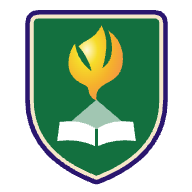
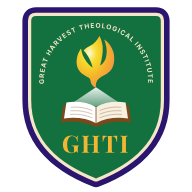
Apply GHTI's feedback: mission, header name and one crest
The text GHTI sent as its vision is now its mission statement, on the
home and About pages; the vision is gone. The header spells out Great
Harvest Theological Institute under GHTI instead of the CRM name. The
crest with the name and GHTI is now the only logo (header, favicon and
app icons), with the name arc raised and the dove lowered so they no
longer touch.

Changed region(s): [[0.0938, 0.0312, 0.9062, 1.0], [0.6875, 0.2188, 0.75, 0.2812]]

diff --git a/components/layout/Header.tsx b/components/layout/Header.tsx
@@ -7,9 +7,10 @@ import MobileMenu from "@/components/layout/MobileMenu";
 import { ghtiNavLinks, site } from "@/lib/site";
 
 /**
- * GHTI's own header: the app's navigation comes first. The CRM affiliation
- * stays visible in the wordmark's tagline; the shared CRM links and logo live
- * in the footer (decision 15 Nov 2026, AGENTS.md "Design System").
+ * GHTI's own header: the app's navigation comes first. The wordmark spells
+ * out what GHTI stands for (GHTI asked on 20 Nov 2026 that the header not
+ * carry the CRM name, which read as the meaning of "GHTI"); the CRM links and
+ * logo live in the footer (AGENTS.md "Design System").
  */
 function Header() {
   return (
@@ -17,7 +18,7 @@ function Header() {
       <div className="mx-auto flex h-16 w-full max-w-7xl items-center justify-between gap-4 px-4 sm:px-6 lg:h-20 lg:px-8">
         <Link href="/" className="flex min-w-0 items-center gap-3">
           <Image
-            src="/brand/ghti-mark.svg"
+            src="/brand/ghti-crest.svg"
             alt=""
             width={40}
             height={48}
@@ -28,9 +29,11 @@ function Header() {
             <span className="font-display text-2xl font-bold tracking-wide lg:text-3xl">
               {site.name}
             </span>
-            <span className="mt-1 truncate text-[0.7rem] font-medium tracking-wide text-on-brand-muted lg:text-xs">
-              {site.ministry}
-            </span>
+            {site.fullName && (
+              <span className="mt-1 text-[0.7rem] leading-tight font-medium tracking-wide text-on-brand-muted lg:text-xs">
+                {site.fullName}
+              </span>
+            )}
           </span>
         </Link>
 

diff --git a/app/(public)/page.tsx b/app/(public)/page.tsx
@@ -7,7 +7,7 @@ import { content } from "@/lib/content";
 import { getPublishedProgrammes } from "@/lib/queries/programmes";
 import { site } from "@/lib/site";
 
-// Welcome text, vision and faith come from lib/content.ts (client input #9).
+// Welcome text, mission and faith come from lib/content.ts (client input #9).
 // Banner images are still to come.
 
 async function HomePage() {
@@ -52,14 +52,14 @@ async function HomePage() {
 
       <section aria-labelledby="faith-heading" className="border-b border-border">
         <h2 id="faith-heading" className="sr-only">
-          Vision and faith
+          Mission and faith
         </h2>
         <div className="mx-auto grid w-full max-w-7xl gap-6 px-4 py-14 sm:px-6 md:grid-cols-2 lg:px-8">
-          <Pillar title="Our vision" href="/about" linkLabel="About GHTI">
-            {content.vision ? (
-              <p className="font-display text-xl leading-snug text-primary">{content.vision}</p>
+          <Pillar title="Our mission" href="/about" linkLabel="About GHTI">
+            {content.mission ? (
+              <p className="font-display text-xl leading-snug text-primary">{content.mission}</p>
             ) : (
-              <Placeholder what="the vision statement." input={9} />
+              <Placeholder what="the mission statement." input={9} />
             )}
           </Pillar>
           <Pillar title="What we believe" href="/statement-of-faith" linkLabel="Statement of Faith">

diff --git a/app/(public)/about/page.tsx b/app/(public)/about/page.tsx
@@ -9,7 +9,7 @@ import { site } from "@/lib/site";
 
 export const metadata: Metadata = {
   title: "About",
-  description: `About ${site.name}: our vision, mission and history.`,
+  description: `About ${site.name}: our mission and history.`,
 };
 
 function AboutPage() {
@@ -33,17 +33,9 @@ function AboutPage() {
       </PageHeader>
 
       <div className="mx-auto w-full max-w-3xl space-y-12 px-4 py-12 sm:px-6 lg:px-8">
-        <Section title="Our vision">
-          {content.vision ? (
-            <p className="font-display text-2xl leading-snug text-primary">{content.vision}</p>
-          ) : (
-            <Placeholder what="the vision statement." input={9} />
-          )}
-        </Section>
-
         <Section title="Our mission">
           {content.mission ? (
-            <p className="text-lg leading-relaxed text-secondary">{content.mission}</p>
+            <p className="font-display text-2xl leading-snug text-primary">{content.mission}</p>
           ) : (
             <Placeholder what="the mission statement." input={9} />
           )}

diff --git a/lib/content.ts b/lib/content.ts
@@ -10,12 +10,14 @@ export const content = {
   welcome:
     "We train pastors, church workers, market men and women, born again Christians in every sphere of life. Join us now." as
       string | null,
-  /** Client input #9. One or two sentences (received 16 Nov 2026). */
-  vision:
+  /**
+   * Client input #9. One or two sentences (received 16 Nov 2026 as the
+   * vision; GHTI renamed it the mission statement on 20 Nov 2026 and dropped
+   * the vision).
+   */
+  mission:
     "To equip leaders with relevant training to love God and love people to Christ, live a Christ-like life and serve as agents of transformation in the society." as
       string | null,
-  /** Client input #9. */
-  mission: null as string | null,
   /** Client input #9. Paragraphs, oldest first. */
   history: null as string[] | null,
   /** Client input #9. Each article of the Statement of Faith. */

diff --git a/docs/client_inputs.md b/docs/client_inputs.md
@@ -16,13 +16,13 @@ Everything we need from GHTI to keep building, in the order we need it. This is 
 | 6   | **Admission requirements and key dates:** intake names and dates, which intakes are open, application deadline                                                         | Step 1.3 `/admissions` page                             | Waiting                                                                                                                                                                                                                                                                                                                                                                                                       |
 | 7   | **Programme list:** level, title, duration, entry requirements, description. Replaces the fake sample programmes now on the preview                                    | Step 1.5, before applications open                      | Titles received (16 Nov 2026): Certificate in Theology, Ordinary Diploma in Theology, Post Graduate Diploma in Theology. Duration, entry requirements and description waiting                                                                                                                                                                                                                                 |
 | 8   | **Names and emails of the first admins** (registrar, faculty)                                                                                                          | Step 1.4 application review; `bun run admin:create`     | Waiting. The first admin is created with `bun run admin:create`; every later admin or lecturer is invited from `/admin/users`                                                                                                                                                                                                                                                                                 |
-| 9   | **Welcome banner** text and images; **vision**, **history**, **Statement of Faith**                                                                                    | Step 1.5 home, About and Statement of Faith pages       | Welcome text and vision received (16 Nov 2026). Images, mission, history, Statement of Faith waiting                                                                                                                                                                                                                                                                                                          |
-| 10  | **Office phone numbers, email, campus address(es), map location**                                                                                                      | Step 1.5 contact page and footer                        | Waiting. Until the office email arrives, contact-form messages go to the developer (`EMAIL_TO` in Vercel; swap the variable when GHTI sends it)                                                                                                                                                                                                                                                               |
+| 9   | **Welcome banner** text and images; **vision**, **history**, **Statement of Faith**                                                                                    | Step 1.5 home, About and Statement of Faith pages       | Welcome text and vision received (16 Nov 2026); on 20 Nov 2026 GHTI renamed that text its mission statement and dropped the vision, so the site shows "Our mission". Images, history, Statement of Faith waiting                                                                                                                                                                                              |
+| 10  | **Office phone numbers, email, campus address(es), map location**                                                                                                      | Step 1.5 contact page and footer                        | Contact-form recipient received (20 Nov 2026): the dean's address, set as `EMAIL_TO` in Vercel Production (it also gets "grades waiting for approval"); Preview keeps the developer's so test messages never reach GHTI. Phone numbers, a public email, address and map waiting                                                                                                                               |
 | 11  | **Subdomain** confirmed as `ghti.crm-world.org.ng` (open question 8), and **who manages DNS** for `crm-world.org.ng`                                                   | Step 1.5 go-live; also the email sending domain (#12)   | Received (16 Nov 2026): proceed as a CRM subdomain, `ghti.crm-world.org.ng` (confirmed by the client's contact); the developer manages DNS for `crm-world.org.ng`                                                                                                                                                                                                                                             |
 | 12  | **Email sending address** (e.g. `admissions@ghti.crm-world.org.ng`) and DNS records added for Resend (we supply the records)                                           | Real emails: confirmations, sign-in links, decisions    | Partly done (16 Nov 2026): Resend verified for `ghti.crm-world.org.ng`; account emails go from `no-reply@ghti.crm-world.org.ng`. Still waiting for the address GHTI wants for admissions and results emails (and replies). Since 20 Nov 2026 the app also sends application-submitted, decision, welcome and results emails from `no-reply@`; replies go nowhere until this address is set (`EMAIL_REPLY_TO`) |
 | 13  | **Privacy notice details:** who is the data controller, and a contact for data requests (Nigeria Data Protection Act 2023)                                             | Step 1.5 `/privacy` page and consent wording            | Waiting                                                                                                                                                                                                                                                                                                                                                                                                       |
 | 14  | **Year-one numbers and launch date** (open question 9)                                                                                                                 | Capacity planning; free-tier limits                     | Waiting                                                                                                                                                                                                                                                                                                                                                                                                       |
-| 15  | **GHTI logo** (optional): if GHTI has its own mark; otherwise we keep the CRM logo and favicon                                                                         | Header row, favicon, certificates later                 | Received (16 Nov 2026): crest as a JPEG on black. Redrawn as vector (`public/brand/ghti-crest.svg`, `ghti-mark.svg`); redraw approved 16 Nov 2026                                                                                                                                                                                                                                                             |
+| 15  | **GHTI logo** (optional): if GHTI has its own mark; otherwise we keep the CRM logo and favicon                                                                         | Header row, favicon, certificates later                 | Received (16 Nov 2026): crest as a JPEG on black. Redrawn as vector (`public/brand/ghti-crest.svg`); redraw approved 16 Nov 2026. On 20 Nov 2026 GHTI asked for the crest with "GHTI" everywhere, so the text-free version was dropped (header, favicon and app icons use the crest)                                                                                                                          |
 
 ## By week 5: Stage 2 🛺 Records
 

diff --git a/AGENTS.md b/AGENTS.md
@@ -81,7 +81,7 @@ Single Next.js app at the repository root (no separate backend). Exists today: `
 - `lib/supabase/`: `server.ts` (Server Components/Actions), `client.ts` (Client Components), `admin.ts` (secret key, server-only, bypasses RLS), `proxy.ts` (`updateSession` used by root `proxy.ts`), `public.ts` (anonymous, cookie-less client for public data; the only client allowed inside `"use cache"`), `env.ts` (env var access), `database.types.ts` (generated, never hand-edited)
 - `lib/queries/`: server-only data access (`"use cache"` reads of public data with `cacheTag`; revalidate the tag when admins change the data)
 - `lib/site.ts`: site name, CRM nav and social links, contact details (null until the client supplies them)
-- `lib/content.ts`: GHTI's own words for public pages (vision, history, Statement of Faith, map, privacy contacts); null shows a `Placeholder` ("Waiting for GHTI")
+- `lib/content.ts`: GHTI's own words for public pages (mission (GHTI dropped the vision on 20 Nov 2026), history, Statement of Faith, map, privacy contacts); null shows a `Placeholder` ("Waiting for GHTI")
 - `app/api/cron/keep-alive/`: daily Vercel Cron (vercel.json) so the free Supabase project never pauses. `app/api/cron/cleanup-documents/`: daily deletion of rejected applicants' documents after `REJECTED_DOCUMENTS_KEEP_DAYS` (`lib/retention.ts`; `null`, so off, until client input #19). Both check `CRON_SECRET` with `isCronRequest()` from `lib/cron.ts`
 - Contact form (step 2.6): `components/contact/ContactForm.tsx`, `lib/contact/actions.ts`, `lib/validation/contact.ts` (schema, honeypot, `CONTACT_DAILY_LIMIT`), templates `emails/ContactMessage.tsx` and `emails/ContactReceipt.tsx`; daily cap `claim_contact_send()` in `supabase/migrations/20261120032259_contact_sends.sql`
 - `lib/auth/`: `rules.ts` (role homes, route guards, safe redirects; pure, tested), `session.ts` (`getCurrentUser`, `requireRole`), `actions.ts` (auth Server Actions)
@@ -165,8 +165,8 @@ An admitted applicant becomes a `student` on the same account. Staff accounts ar
 
 ## Design System
 
-- **GHTI's header comes first** (decision 15 Nov 2026, differs from `cwl` and `protection`). The header is GHTI's own: the GHTI wordmark with "Charismatic Renewal Ministries" beneath it, then About, Academics, Admissions, Contact and the account button. The six CRM navigation links are not shown; the footer's copyright line links "Charismatic Renewal Ministries" to crm-world.org.ng, beside the CRM social links. `public/brand/crm-logo.png` is kept for award certificates (step 3.4).
-- **GHTI logo** (redrawn from GHTI's crest, approved 16 Nov 2026): `public/brand/ghti-mark.svg` (indigo-rimmed shield, descending dove, white light, open Bible; no text) sits beside the header wordmark and is the source of `app/icon.svg`, `app/icon.png` and `app/apple-icon.png`. `public/brand/ghti-crest.svg` is the full crest with the name arc and "GHTI", used on the About page and the share image (`app/opengraph-image.tsx`), and meant for certificates; its lettering was converted to outlines on 20 Nov 2026 (Inter Bold and Playfair Display Bold, placed exactly where Chrome drew the original text), so it needs no fonts. Use the crest only at large sizes: below about 120px the lettering is unreadable, so small places (header, favicon, app icons) keep the text-free mark. The dove is gold, not a flame.
+- **GHTI's header comes first** (decision 15 Nov 2026, differs from `cwl` and `protection`). The header is GHTI's own: the GHTI wordmark with "Great Harvest Theological Institute" beneath it (GHTI asked on 20 Nov 2026 that the header not carry "Charismatic Renewal Ministries", which read as what GHTI stands for), then About, Academics, Admissions, Contact and the account button. The six CRM navigation links are not shown; the footer's copyright line links "Charismatic Renewal Ministries" to crm-world.org.ng, beside the CRM social links. `public/brand/crm-logo.png` is kept for award certificates (step 3.4).
+- **GHTI logo** (redrawn from GHTI's crest, approved 16 Nov 2026): `public/brand/ghti-crest.svg` is the one logo (indigo-rimmed shield, descending dove, white light, open Bible, the name on an arc and "GHTI"). GHTI asked on 20 Nov 2026 for this crest everywhere rather than two versions, so the text-free mark was removed: the crest sits beside the header wordmark, is `app/icon.svg` (a copy), and `app/icon.png` (192px, transparent) and `app/apple-icon.png` (180px on cream) are rendered from it in Chromium. It is also on the About page, the share image (`app/opengraph-image.tsx`) and, as `assets/images/ghti-crest.png`, in PDFs. Its lettering was converted to outlines on 20 Nov 2026 (Inter Bold and Playfair Display Bold, placed exactly where Chrome drew the original text), so it needs no fonts. At icon sizes the lettering is too small to read; that is accepted. If the crest changes, re-copy `app/icon.svg` and re-render the three PNGs (`app/icon.png`, `app/apple-icon.png`, `assets/images/ghti-crest.png` at 500×600). On 20 Nov 2026 the name arc was raised and the dove lowered slightly so they no longer touch. The dove is gold, not a flame.
 - **Brand** (decision 16 Nov 2026): GHTI's crest colours lead; CRM's are a light touch. Crest green for the header, primary actions (`brand`) and the footer band (`band`, deepest green under a gold rule), dove gold as the accent, cream ground, green-black ink. Use blue sparingly: CRM indigo appears only in the logo rim and the CRM links (`ministry`). CRM flame red, deepened, for errors (`danger`). Dark bands carry `surface-dark` (bright gold focus ring); a light panel inside one carries `surface-light`. Playfair Display for headings, Inter for body, loaded with `next/font/google`.
 - **Tailwind v4:** theme defined with `@theme` in `globals.css`, no config file. Components use **semantic tokens** (`bg`, `bg-card`, `text-primary`, `text-secondary`, `accent`, `border`, …), not raw palette values, so dark mode can be added later.
 - **Simplicity and ease of use first.** Many users are on phones: every screen must work at 375px width. Forms show clear, specific errors.
@@ -178,7 +178,7 @@ Keep `.env.example` up to date. For local development, copy it to `.env.local` a
 - `NEXT_PUBLIC_SUPABASE_URL`, `NEXT_PUBLIC_SUPABASE_PUBLISHABLE_KEY`: client and server.
 - `SUPABASE_SECRET_KEY`: server only (`lib/supabase/admin.ts`).
 - `NEXT_PUBLIC_SITE_URL`: canonical URL for SEO, emails and QR codes.
-- `RESEND_API_KEY`, `EMAIL_FROM` (default `GHTI <no-reply@ghti.crm-world.org.ng>`), `EMAIL_REPLY_TO` (once GHTI names an admissions address), `EMAIL_TO` (contact-form inbox; the developer's address until GHTI names the office's, client input #10: change the variable in Vercel and redeploy): transactional email and contact-form inbox.
+- `RESEND_API_KEY`, `EMAIL_FROM` (default `GHTI <no-reply@ghti.crm-world.org.ng>`), `EMAIL_REPLY_TO` (once GHTI names an admissions address), `EMAIL_TO` (contact-form inbox, also "grades waiting for approval": the dean's address in Production since 20 Nov 2026, client input #10; Preview keeps the developer's so test messages never reach GHTI; after changing it in Vercel, redeploy): transactional email and contact-form inbox.
 - `MAILPIT_URL`: local only (`http://127.0.0.1:54324`); app emails go to the local Mailpit inbox when `RESEND_API_KEY` is unset.
 - `CRON_SECRET`: protects the keep-alive and clean-up cron routes (`lib/cron.ts`).
 

diff --git a/docs/development_plan.md b/docs/development_plan.md
@@ -233,7 +233,7 @@ The [Architecture Reference](#architecture-reference) below holds the full data 
 
 #### 3.5. Admin and applicant polish
 
-- [ ] `site_content` table + RLS + pgTAP tests; `/admin/content` so vision, history, Statement of Faith and contact details can change without a developer (moves the Stage 1 text into the database). Built in our own admin, not with a headless CMS: see "Content management: when to revisit Payload CMS" under Post-MVP Ideas.
+- [ ] `site_content` table + RLS + pgTAP tests; `/admin/content` so the mission, history, Statement of Faith and contact details can change without a developer (moves the Stage 1 text into the database). Built in our own admin, not with a headless CMS: see "Content management: when to revisit Payload CMS" under Post-MVP Ideas.
 - [x] `/admin` overview: applications pending, students by programme, grades awaiting approval. _(Done 20 Nov 2026: "Students and results" tiles for active students by programme, grades awaiting approval (submitted by lecturers since step 3.3, with drafts counted beside them) and results emails still to send, per term (`lib/admin-overview.ts`, tested).)_
 - [x] CSV exports for applications, students, results. _(Done 20 Nov 2026: `/admin/exports`. Built on request and never stored; every download is written to `export_log` first (who, which export, filters, rows, when; append-only, admins only, 10 pgTAP tests) and listed on the page, for accountability under the NDPA. File names carry the kind and date, never a name; URLs carry statuses and ids only. Cells that could run as spreadsheet formulas are neutralised, and Nigerian phone numbers export as 0803 123 4567 (`lib/csv.ts`, `lib/exports.ts`, tested). Results export published grades unless the admin includes drafts.)_
 - [ ] Admins upload documents on a student's behalf.
@@ -295,7 +295,7 @@ Migrations live in `supabase/migrations/` (versioned in Git, never edited in the
 | `lessons`      | `id`, `course_id`, `title`, `body`, `youtube_id`, `position`                                         | Store the **video ID**, not the raw URL               | 3     |
 | `materials`    | `id`, `course_id`, `lesson_id?`, `title`, `kind`, `drive_file_id`                                    | Slides, PDFs, handouts                                | 3     |
 | `awards`       | `id` (uuid), `serial`, `student_id`, `programme_id`, `kind`, `issued_at`, `issued_by`, `revoked_at?` | Certificate, Diploma or Post Graduate Diploma awarded | 3     |
-| `site_content` | `key`, `title`, `body_md`, `updated_by`                                                              | Vision, history, Statement of Faith, contact details  | 3     |
+| `site_content` | `key`, `title`, `body_md`, `updated_by`                                                              | Mission, history, Statement of Faith, contact details | 3     |
 
 ### Row-Level Security (the real access control)
 
@@ -318,8 +318,8 @@ RLS is enabled on every table and the storage bucket; no table is reachable with
 
 | #   | Page                 | Route                                                                                     | Stage                        |
 | --- | -------------------- | ----------------------------------------------------------------------------------------- | ---------------------------- |
-| 1   | Home                 | `/` (welcome banner, vision, history summary, Statement of Faith teaser)                  | 1                            |
-| 2   | About                | `/about` (vision, full history)                                                           | 1                            |
+| 1   | Home                 | `/` (welcome banner, mission, history summary, Statement of Faith teaser)                 | 1                            |
+| 2   | About                | `/about` (mission, full history)                                                          | 1                            |
 | 3   | Statement of Faith   | `/statement-of-faith`                                                                     | 1                            |
 | 4   | Academics            | `/academics` (programmes grouped by Certificate, Diploma, Post Graduate Diploma)          | 1                            |
 | 5   | Programme detail     | `/academics/[slug]` (overview, requirements, courses by year/semester, lecture schedules) | 1 (courses: 2, schedules: 3) |
@@ -369,7 +369,7 @@ RLS is enabled on every table and the storage bucket; no table is reachable with
 | 5   | Grades                     | `/admin/grades`                                                                       | 2 (entry), 3 (approval) |
 | 6   | Programmes, courses, terms | `/admin/academics`                                                                    | 2                       |
 | 7   | Offerings & lecturers      | `/admin/offerings`                                                                    | 2 (lecturers: 3)        |
-| 8   | Site content               | `/admin/content` (vision, history, Statement of Faith, contact details, schedules)    | 3                       |
+| 8   | Site content               | `/admin/content` (mission, history, Statement of Faith, contact details, schedules)   | 3                       |
 | 9   | Users & roles              | `/admin/users`                                                                        | 3                       |
 | 10  | Awards                     | `/admin/awards`                                                                       | 3                       |
 
